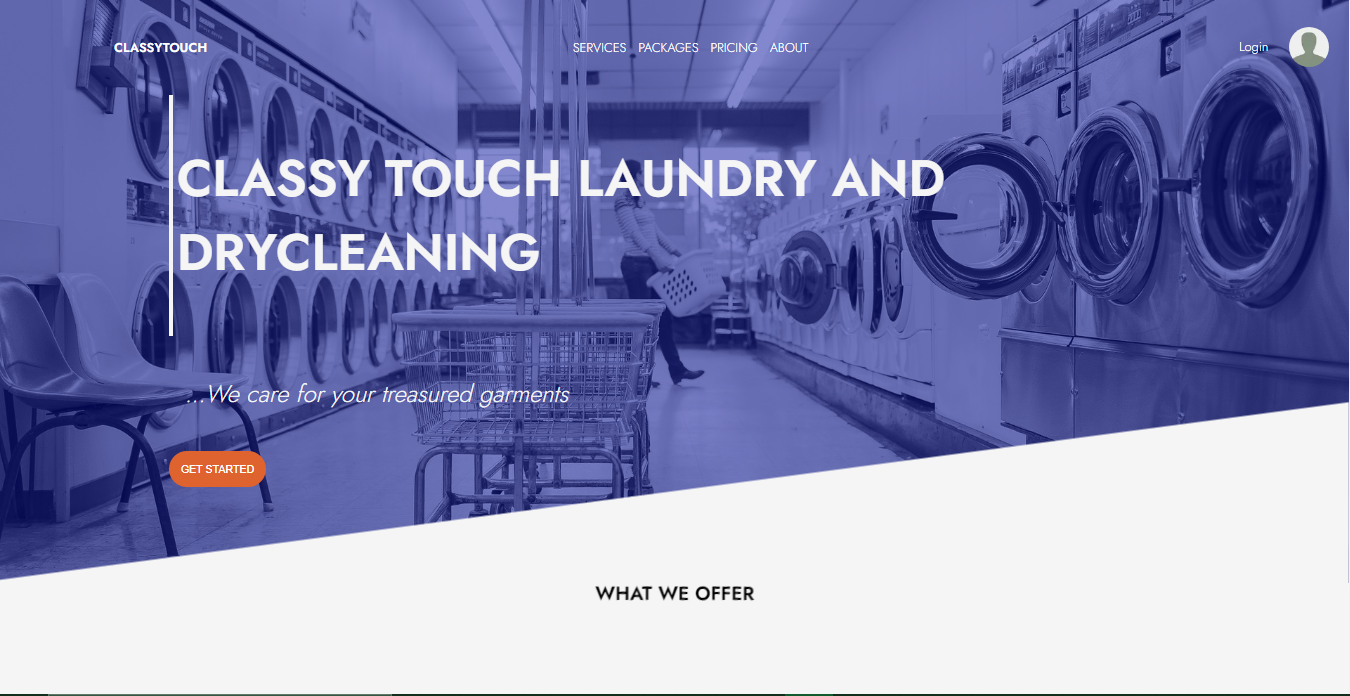
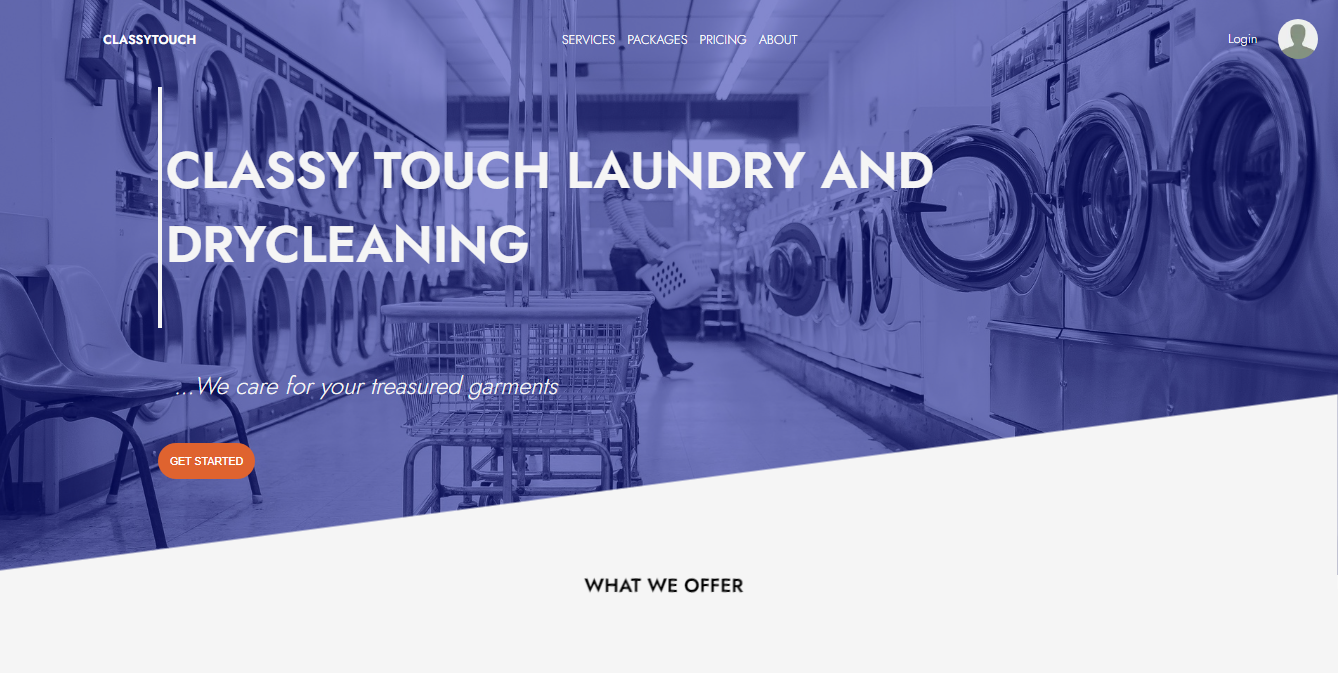
added an image background and updated some of the website styling

diff --git a/pages/style.module.scss b/pages/style.module.scss
@@ -4,57 +4,90 @@
   0% {
     visibility: visible;
     transform: translateY(0%);
-    transform: scale(1);
+    // transform: scale(1, 1);
   }
   25% {
     visibility: visible;
     transform: translateY(-33%);
-    transform: scale(1.2);
+    // transform: scale(1.5, 1.5);
   }
   50% {
     visibility: visible;
     transform: translateY(0%);
-    transform: scale(1);
+    // transform: scale(1, 1);
   }
   75% {
     visibility: visible;
     transform: translateY(-33%);
-    transform: scale(1.2);
+    // transform: scale(1.5, 1.5);
   }
   100% {
     visibility: visible;
     transform: translateY(0%);
-    transform: scale(1);
+    // transform: scale(1,1);
+  }
+}
+@keyframes big-small {
+  0% {
+    transform: scale(1, 1);
+  }
+  25% {
+    transform: scale(1.2, 1.2);
+  }
+  50% {
+    transform: scale(1, 1);
+  }
+  75% {
+    transform: scale(1.2, 1.2);
+  }
+  100% {
+    transform: scale(1, 1);
   }
 }
 
 .top {
   position: relative;
-  // overflow: hidden;
+  background-image: linear-gradient(#141212dc, #141212dc),
+    url('../public/images/my-image.JPG');
+  background-position: center;
+  background-repeat: no-repeat;
+  background-size: cover;
+  display: flex;
+  justify-content: space-between;
+  flex-direction: column;
   min-height: 100vh;
   padding: 20px;
   font-size: 1.05rem;
   .topText {
     width: 80%;
     padding: 30px;
-    margin: auto;
+    margin: 20px auto;
   }
-  .downArrow {
-    position: absolute;
-    bottom: 70px;
-    left: 45%;
-    visibility: hidden;
-    width: 10%;
-    font-size: 16px;
-    text-align: center;
-    transition: 0.5s;
-    img {
+  .viewProjects {
+    display: flex;
+    align-items: center;
+    padding: 30px;
+    .downArrow {
+      visibility: hidden;
+      width: 100%;
+      padding: 10px;
+      text-align: center;
+      transition: 0.5s;
       animation-name: up-down;
       animation-duration: 3s;
       animation-delay: 7s;
       animation-timing-function: linear;
       animation-iteration-count: infinite;
-      cursor: pointer;
+      img {
+        width: 35px;
+        height: 35px;
+        animation-name: big-small;
+        animation-duration: 3s;
+        animation-delay: 7s;
+        animation-timing-function: linear;
+        animation-iteration-count: infinite;
+        cursor: pointer;
+      }
     }
   }
   @include laptop {
@@ -62,7 +95,7 @@
   }
 }
 .bottom {
-  background-color: darken($backgroundColor, $amount: 4);
+  background-color: $backgroundColor;
   min-height: 100vh;
   padding: 15px;
   .bottomContent {

diff --git a/pages/index.js b/pages/index.js
@@ -60,16 +60,13 @@ const Home = (props) => {
             }}
           />
         </div>
-        <Link href="/#bottom">
-          <a className={styles.downArrow}>
-            <Image
-              src="/svgs/down-arrow.svg"
-              width={30}
-              height={30}
-              alt="Check Projects"
-            />
-          </a>
-        </Link>
+        <div className={styles.viewProjects}>
+          <span className={styles.downArrow}>
+            <Link href="/#bottom">
+              <img src="/svgs/down-arrow.svg" alt="View Projects" />
+            </Link>
+          </span>
+        </div>
       </div>
       <div className={styles.bottom} id="bottom">
         <div className={styles.bottomContent}>{projects}</div>
